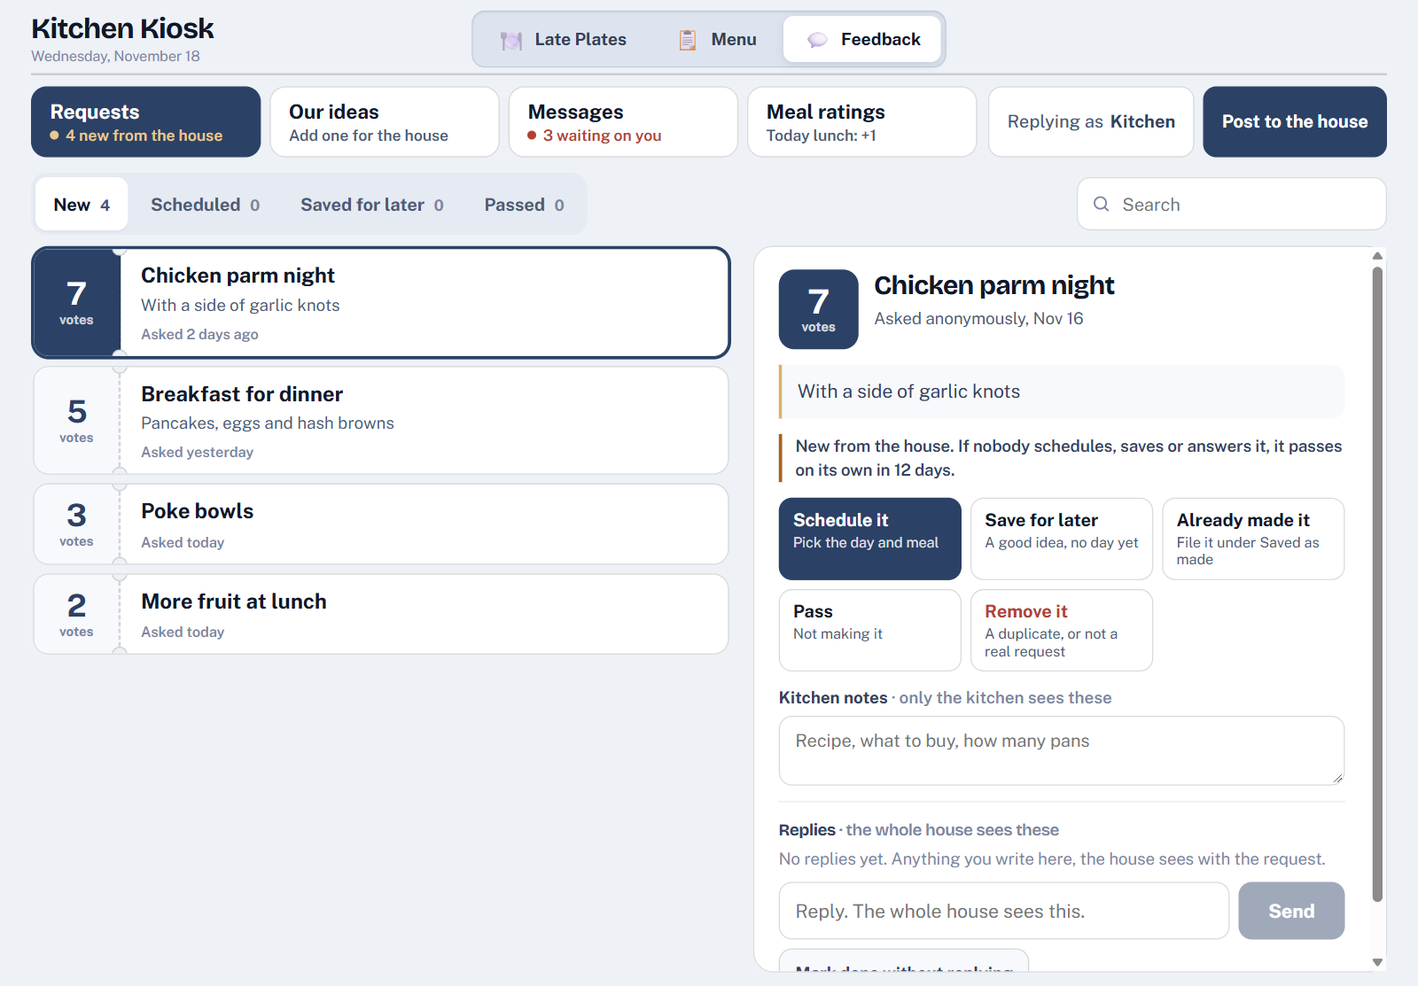
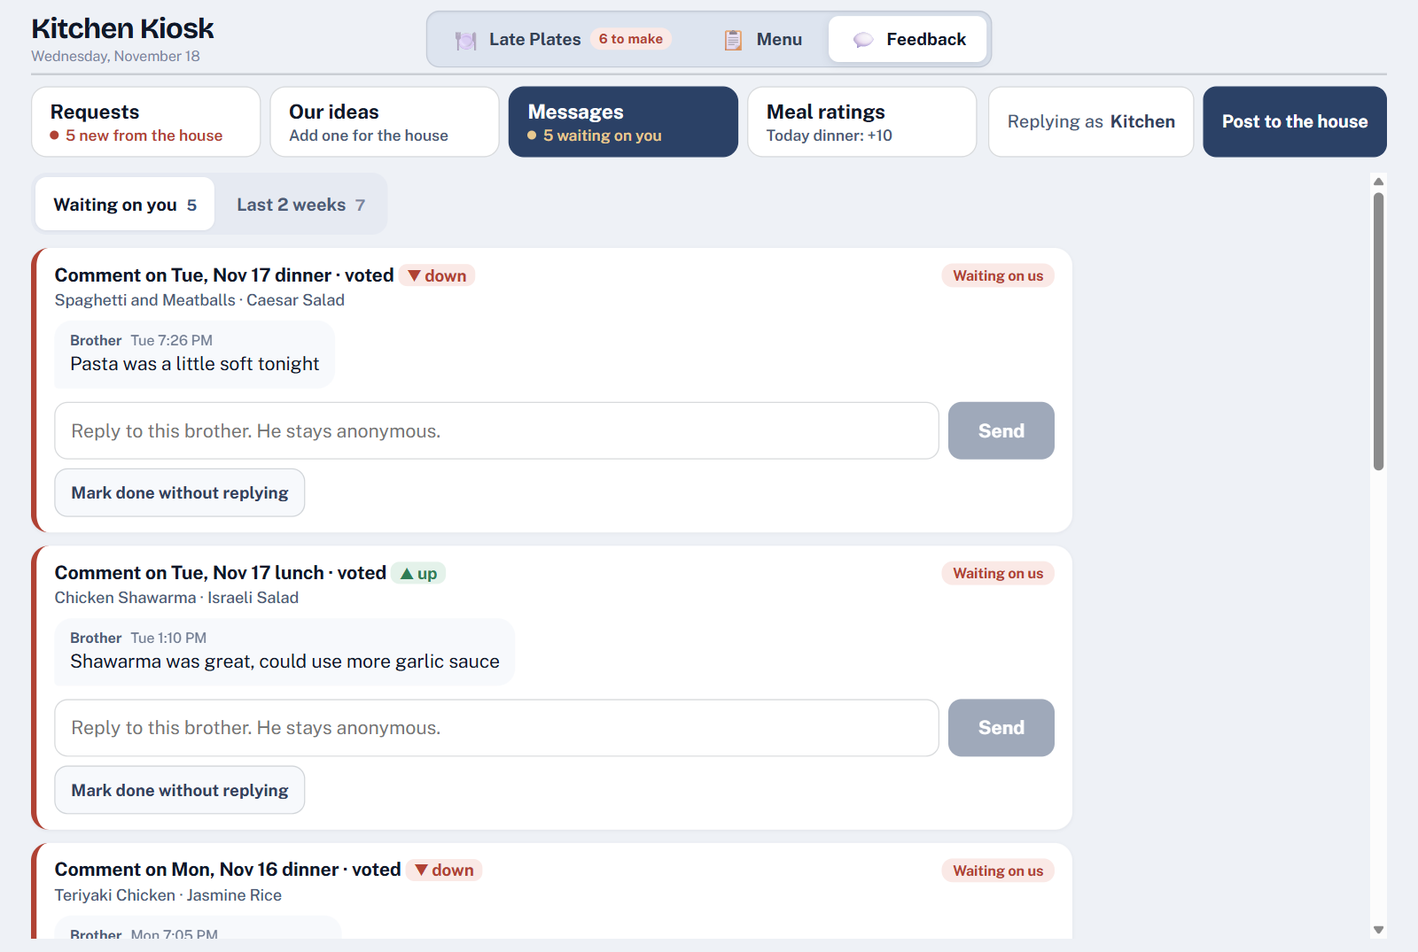
Showcase the current app with new screenshots
Rewrite the overview around the three-tab resident app, the kitchen
tablet's Feedback tools and the manager console as they ship today, and
replace every screenshot with fresh ones from a demo house.

diff --git a/README.md b/README.md
@@ -1,140 +1,127 @@
 # Kitchen Portal
 
-**Dining operations software for group-living houses: duty scheduling, late plates, menus, meal feedback and house polls, in one app for residents, chefs and the house's kitchen manager.**
+**Dining operations software for group-living houses.** Duty scheduling, cover, late plates, menus, meal feedback and house polls, in one system with a screen for each person who needs it: residents on their phones, chefs on a kitchen tablet, and the house's kitchen manager at a desk.
 
 In daily use since August 2026 by a fraternity chapter house of about 95 residents. It replaced a group-chat screenshot of the duty rotation, a sign-up sheet on the chefs' cart, and "I never knew I was on" arguments.
 
 > This repository is a product overview: documentation and screenshots only. **The source code is private and proprietary.** I'm happy to give a live demo, or code access to reviewers on request: rsghorbani9@gmail.com
 >
-> Screenshots use a demo roster with fictional names. No real residents appear.
+> Every screenshot comes from a demo house with fictional names and a few weeks of made-up activity. No real residents appear.
 
 <p align="center">
-  <img src="docs/screenshots/phone-home.png" width="30%" alt="A resident's home screen: his next shift and who he is on with">
-  <img src="docs/screenshots/phone-board.png" width="30%" alt="The week's board, with a shift up for grabs that anyone can pick up">
-  <img src="docs/screenshots/phone-request-plate.png" width="30%" alt="Requesting a late plate, with his allergy attached automatically">
+  <img src="docs/screenshots/phone-home.png" width="30%" alt="A resident's Home tab: tomorrow's lunch cleanup and who he is on with, buttons to put it up for grabs, drop it or add it to a calendar, and his points and standing">
+  <img src="docs/screenshots/phone-board.png" width="30%" alt="The Board: two open shifts worth a point, then each day's lunch and dinner crew, with his own shift highlighted and a cover request on Thursday dinner">
+  <img src="docs/screenshots/phone-late-plate.png" width="30%" alt="Saving a dinner plate: the menu, his peanut allergy flagged for the kitchen automatically, and a note saying he is back around 7:30">
 </p>
 
 ---
 
-## The problem
+## One record, three screens
 
-A chapter house with a hired chef has three groups who all need the same information, and nothing that connects them:
+A house with a hired chef has three groups who all need the same information and nothing that connects them. Kitchen Portal gives each one an interface built for the device it's actually used on, all backed by a single record.
 
-- **Residents** need to know when they're on kitchen duty, trade shifts when life gets in the way, see the menu, and save a plate when class runs over the meal.
-- **Chefs** need an accurate, allergy-safe list of plates to save, a simple way to publish the menu, and honest feedback on their food.
-- **The kitchen manager**, a student volunteer who changes every year, has to run a fair duty rotation for dozens of people and settle disputes about who was on.
+| Who | Where | What they do there |
+|---|---|---|
+| **Residents** | A phone app with three tabs | See their next shift, trade it, pick up open ones, vote on meals, talk to the kitchen, save a plate, answer polls |
+| **Chefs** | A paired kitchen tablet | Work the late-plate queue, publish the menu, answer the house, decide what to cook next |
+| **Kitchen manager** | A desktop console | Draw and post weeks, run the roster and points, read feedback with names, run polls, check the audit log |
 
-Kitchen Portal gives each group its own interface, built for the device it's actually used on, and backs them all with one record.
+The kitchen manager is a student volunteer who changes every year, so the system is built to be run by someone who has never met its author.
 
 ---
 
-## Features by interface
+## Residents: the phone app
 
-### Residents (phone app)
+Installed from the browser, no app store. Three tabs: **Home**, **Board** and **Menu**.
 
-**Home**
-- Next shift at a glance, with who you're on with, and one-tap **Add to calendar**
-- An auto-updating personal **calendar feed** of every assigned shift
-- Points, standing in the house, and upcoming shifts
-- **Standing availability:** block the days you can never do, and the draw respects them
-- Open seats going spare, which anyone can take for the point
+### Home
 
-**Shifts and cover**
-- **Put up for grabs** with a reason the house can see. The shift stays yours until someone takes it
-- Offer **2× or 3×** from points you've already earned, paid only if somebody actually covers it
-- **"I can't make it"** with clear, upfront consequences based on how much notice you give
-- **"I'll be there"** confirmation, recorded while dropping is still free
-- Coverers can hand a shift on under the same rules
-- **The Board:** the whole week's lunch and dinner crews, open shifts and one-tap pickup
+- **Your next shift**, front and centre: the day, the meal, and who you're on with
+- **Put up for grabs**, **I can't make it**, and **Add to calendar**, with the cost of each spelled out before you tap ("Dropping it now costs a make-up once somebody takes it")
+- Points, standing in the house, upcoming shifts, and how far ahead the schedule is posted
+- Open shifts anyone can take for the point, standing availability, and your history of served shifts
 
-**Menu and late plates**
-- The week's menu, day by day, viewable anywhere in seconds
-- **Save me a plate** before the cutoff, with a live countdown
-- Allergies and dietary needs attached to every request automatically
-- An optional note for the kitchen ("in class until 3:30")
-- **Recurring late plates** for a standing weekly schedule
+### Board
 
-**Feedback and the house conversation**
-- **Up/down votes on every meal**, both before it's served ("sound good?") and after ("how was it?")
-- **Meal requests:** ask for a dish and upvote others. Similar existing requests appear as you type, so duplicates don't pile up
-- Comments and conversations with the kitchen, which the chefs can reply to
-- Chef announcements, posted straight to the house
-- Feedback is **anonymous to the kitchen**. Names are visible only to the manager
+<img src="docs/screenshots/phone-standings.png" width="30%" align="right" alt="Standings: his 2 points and 34th of 58, then everyone on the rotation from most points to fewest, with lunch and dinner tabs">
 
-**Polls, standings and profile**
-- House polls in five formats, with an unskippable popup for live polls and the option to change an answer
-- **Standings:** every resident's points and rank
-- Self-managed profile: room, Slack ID and allergies
-- Six-digit PIN sign-in, PIN change, and "sign out everywhere"
-- A read-only weekly menu for out-of-house seniors, behind a shared password
+- **The board:** every posted week, day by day, with each lunch and dinner crew. Filter to your shifts, open shifts or everyone
+- **Cover:** a shift up for grabs shows on the board with what it pays. Pick it up in one tap. Ask with 2× or 3× by adding points you've already earned, paid only if someone actually covers it
+- **My availability:** block the days you can never do, like a weekly class, and the draw won't put you there
+- **Standings:** every resident from most points to fewest, by rotation, with house totals and the points the house has "minted" this year
 
-### Chefs (kitchen kiosk)
+<br clear="right">
 
-**Late plates**
-- A live queue for lunch and dinner, with counts on each tab
-- **Mandatory allergy acknowledgement:** allergies flagged in red on every plate
-- **Ready** and **Can't do it** on each request
-- A cutoff banner with a live countdown, so plating starts only when the list is final
-- A **Taking requests** switch and cutoff time adjustments, in the chefs' own hands
+### Menu
 
-**Menu**
-- A week-by-week menu editor that publishes to every resident instantly
-- Menu pairings, and scheduled meal requests shown alongside each day
+- The week's menu, day by day, with last week and next week a tap away
+- **Votes on every meal**, before it's served ("Sound good?") and after ("How was it?")
+- **A comment thread on every meal** that the kitchen reads and answers, with votes on every message
+- **Requests:** ask the kitchen for a dish and upvote what others asked for
+- **Save me a plate** before the cutoff, with a live countdown, your allergies attached automatically, and an optional note. **Recurring plates** for a standing weekly schedule
+- **No names.** The kitchen and the house see what you wrote, never who wrote it. Only the manager can see names
 
-**Feedback**
-- **Meal ratings:** before- and after-serving scores for recent meals, with no names attached
-- **Messages:** read the house's comments and reply, signed as the chef who answered
-- **Requests:** triage what the house is asking for. Schedule it, mark it already made, save it for later, pass, merge duplicates, or dismiss it
-- **Our ideas:** the kitchen's own idea bank, with when each dish was last made and when it's planned next. Schedule meals ahead with an assistive planner
-- **Post to the house:** announcements written and published by the chefs themselves
+### Polls
 
-**Device**
-- Securely **paired** tablet or kitchen laptop, with no passwords on the kitchen counter and pairing status on screen
+A poll the manager puts live **pops up on any page until you answer it**. You can change your answer while it's open, and the results can be shown back to the house. Five formats: pick one, pick several, rank, rating scale, and written answer.
 
-### Kitchen manager (desktop)
+<p align="center">
+  <img src="docs/screenshots/phone-votes.png" width="30%" alt="Tuesday's meals after serving: lunch at +13 with one comment, dinner at +17 with two">
+  <img src="docs/screenshots/phone-thread.png" width="30%" alt="The thread on Saturday's taco night: a request for spicier salsa at +12, the kitchen's reply the next morning, and a follow-up, all without names">
+  <img src="docs/screenshots/phone-poll.png" width="30%" alt="A live poll as a popup: pick up to two additions to Sunday brunch, closing Sunday at 5 PM">
+</p>
 
-**Dashboard**
-- Live tiles: residents on duty, sign-up rate, point spread, shifts up for grabs, make-ups owed, exemptions
-- How far ahead the schedule is posted, current and upcoming weeks, and an archive
-- One-click **chapter announcement** text
-- Recent activity feed, and a running count of points the house has "minted"
+---
 
-**Weeks**
-- **Draw** a week with a fair, reproducible scheduler: make-up debt first, then fewest points, then longest since served, then a seeded random draw
-- A configurable limit on weeks in a row, so a resident who is far behind catches up at a sustainable pace
-- A per-week overview with a **"Needs you"** list
-- Attendance and no-shows, raising offers on open seats, and bounties
+## Chefs: the kitchen tablet
 
-**Roster**
-- An **import wizard** that takes the chapter export, a spreadsheet, pasted cells or a typed list, and shows every add, update and removal for approval first
-- Bulk actions: rotations, exemptions with reasons, setup codes, removals
-- **Points operations:** add, subtract, set or rebase for a selection or a whole crew, with a preview and a reason on every record
-- One-time **setup codes** for claiming accounts
-- A **record for each resident:** every shift, late drops, releases, waivers and the full audit trail
-- **View as resident** to see exactly what the house sees
+![The kitchen tablet's dinner queue: a countdown to the 4 PM cutoff, the Taking requests switch, and three plates to make, two with allergies flagged in red and one with a note](docs/screenshots/kitchen-tablet.png)
 
-**Late plates and the kiosk**
-- Pair, rename and revoke kitchen devices
-- Default cutoffs and meal settings
+**Late Plates.** A live queue for each meal, with counts on each tab. Allergies are flagged in red on every plate. A cutoff banner counts down so plating starts only when the list is final. Each plate gets **Ready** or **Can't do it**, and the chefs control the **Taking requests** switch and cutoff times themselves.
 
-**Feedback**
-- Meal scores with authors, starred requests, hiding comments, and a **weekly digest**
+**Menu.** A week-by-week editor. What the chefs type shows up on every phone and on the dining-room TV right away.
 
-**Polls**
-- Five formats: pick one, pick several, rank, rating scale and written answer
-- Audiences (everyone, on duty, one crew, residents living in), closing times, and anonymous mode
-- Results with names, a list of who hasn't answered, copy-to-Slack, and CSV export
+**Feedback.** Everything the house is saying, in one place, with no names:
 
-**Audit log**
-- An append-only log of every consequential action
-- Filter by category, exact action, actor type, resident, record and date range, or search free text
-- Every view is a shareable URL, with CSV export
+- **Requests:** what the house is asking for, ranked by votes. **Schedule it** for a day and meal, **save for later**, mark it **already made**, **pass**, or remove a duplicate. Private kitchen notes sit next to public replies, and a request nobody acts on passes by itself
+- **Messages:** meal comments waiting on a reply, answered by the kitchen while the resident who wrote it stays anonymous
+- **Meal ratings**, **our ideas** (the kitchen's own idea bank), and **post to the house** for announcements
 
-**Settings and operations**
-- School-year rollover that carries the roster, points and settings forward
-- Draw pace, roster defaults, and the menu password for out-of-house seniors
-- **Slack integration:** reminders, cover posts and nudges, a switch for each message, built-in limits that keep the channel quiet, and a bot that deletes its own posts once they're resolved
-- An **in-app handbook**, so next year's manager can run it without the person who built it
+| Requests, ranked by the house | Messages waiting on the kitchen |
+|---|---|
+| ![The Requests list: chicken parm night at 15 votes, breakfast for dinner at 10, and the chef's options to schedule, save, mark made, pass or remove](docs/screenshots/kitchen-requests.png) | ![Messages: meal comments waiting on a reply, each showing how the writer voted, with a reply box and "Mark done without replying"](docs/screenshots/kitchen-feedback.png) |
+
+The tablet is **paired** with a short-lived code from the manager. There are no passwords on the kitchen counter, and each tablet can be revoked.
+
+---
+
+## Kitchen manager: the desktop console
+
+![The manager's dashboard: residents on duty, 92% signed in, point spread, shifts up for grabs, make-ups owed and exemptions; a live poll at 42 of 61 answers; house points and the year's minted count; and the posted weeks](docs/screenshots/admin-dashboard.png)
+
+**Dashboard.** Live tiles for the house, live polls with their response progress, points by rotation, how far ahead the schedule is posted, and a one-click chapter announcement.
+
+**Weeks.** Draw a week with a fair, reproducible scheduler, then post it. Each week has a **Needs you** list, and any shift can be reassigned, marked a no-show or posted for cover from the grid. A week that has started can't be deleted, because what the house was told is the record.
+
+**Roster and records.** An import wizard that takes the chapter's export, a spreadsheet, pasted cells or a typed list, and shows every add, update and removal for approval first. Bulk rotations, exemptions, setup codes and points operations, each with a reason on every affected record. And **a record for every resident:** every shift with the notice they were given, and everything that ever happened to them.
+
+| A posted week, and what needs attention | One resident's record |
+|---|---|
+| ![Manage week: one cover request needing attention, then the week's lunch and dinner crews, with today highlighted](docs/screenshots/admin-week.png) | ![A resident's record: three shifts with the notice given for each, one served as cover and one no-show, and the record that explains them](docs/screenshots/admin-member-history.png) |
+
+**Feedback, with names.** The week at a glance, conversations waiting on the kitchen, meal scores, requests and polls. Only the manager sees who wrote what. **Reveal name** shows one message's author to the house, and **Hide** takes a message off every screen. Both are logged and can be undone.
+
+**Polls.** Five formats, a chosen audience, closing times and an anonymous mode. Live results with names, who still hasn't answered, a timing breakdown, and CSV export.
+
+| This week's feedback | A live poll's results |
+|---|---|
+| ![The manager's feedback page: the kitchen's open conversations, new requests with who asked, the most wanted dishes not yet planned, and every comment with its author](docs/screenshots/admin-feedback.png) | ![Poll results: 42 of 61 answered, a 69% response rate, typical time to answer, and each option with who picked it](docs/screenshots/admin-poll.png) |
+
+**Audit log.** Every consequential action, append-only: sign-ins, shifts, cover, points, plates, feedback and manager changes. Filter by category, action, who acted, resident, record and date range, or search free text. Every view is a link and exports to CSV.
+
+![The audit log filtered to shifts and cover: who put a shift up for grabs and why, who picked it up, who owes a make-up, and a same-day request the manager raised to 2×](docs/screenshots/admin-audit.png)
+
+**Settings and the handbook.** School-year rollover that carries the roster, points and settings forward. Draw pace, roster defaults, Slack reminders and nudges with a switch for each message, and an **in-app handbook** so next year's manager can run it alone.
 
 ### Dining-room TV
 
@@ -142,34 +129,27 @@ A companion display on the same hardware shows today's menu, kitchen duty, weath
 
 ---
 
-## More screens
+## The house rules, encoded
 
-| The chefs' lunch queue on the kitchen kiosk | A resident's record: every shift, with notice given |
-|---|---|
-| ![Kitchen kiosk](docs/screenshots/kitchen-tablet.png) | ![Resident record](docs/screenshots/member-record.png) |
-
-**The chefs' Feedback tab and a live house poll.** Requests come in ranked by votes, with no names attached, and the chefs schedule, save, pass or answer each one. A live poll stays in front of every resident until he answers.
-
-<p align="center">
-  <img src="docs/screenshots/kitchen-feedback.png" width="70%" alt="The kitchen kiosk's Feedback tab: anonymous meal requests ranked by votes, with the chefs' options to schedule, save for later, pass or reply">
-  <img src="docs/screenshots/phone-poll.png" width="22%" alt="A live poll on a resident's phone: pick up to two additions to Sunday brunch">
-</p>
-
-![The manager's dashboard](docs/screenshots/dashboard.png)
-
-![Cover requests in the audit log: asked, picked up, and a same-day ask the manager raised to 2x](docs/screenshots/audit-cover.png)
+- **Who gets drawn.** Make-up debt first, then fewest points, then longest since last served, then a random draw seeded by the week, so any week can be reproduced exactly. Standing conflicts and exemptions are respected, with one shift per resident per week except make-ups.
+- **Up for grabs isn't dropping out.** A shift up for grabs stays yours until somebody takes it, and only whoever serves earns the point. A bonus you offer comes out of points you've earned, is paid only if someone covers, and can never be promised twice. Cover moves points between residents. It never creates them.
+- **"I can't make it" depends on notice.** With 72 hours' notice you come off the shift and owe a make-up. With less, it stays yours and the manager is flagged.
+- **No-shows** never earn the point and, by default, owe a make-up and lose a point.
+- **Minted points are counted.** Anything the house adds, such as a raised shift or a bounty on an open seat, is recorded apart from what residents funded, and the year's total is public.
+- **Points can't drift.** Randomized tests replay posts, raises, pickups and corrections, and check that every point in the house is accounted for.
+- **Feedback is open but nameless,** and **polls can't be skipped.**
+- **Posted weeks are never regenerated.** What the house was told is the record.
 
 ---
 
 ## Built for real use
 
-- **A full-stack progressive web app** that residents install from the browser, with no app store needed
-- **Self-hosted** on a Raspberry Pi in the house. Published through an outbound-only Cloudflare Tunnel, so nothing listens on the house network
-- **Security designed for an attacker who knows the house:** one-time setup codes, scrypt-hashed PINs with escalating lockout, signed sessions that can be revoked instantly, a manager account with password plus authenticator (TOTP), paired kitchen devices, and strict browser security headers. Residents in the house who study security have tried to break in and haven't managed it.
-- **The record is the product:** every consequential change appends to an audit log that's never edited or deleted, which settles "I never knew I was on" with a timestamped chain instead of memory
-- **Points can't drift:** the scheduler and points logic are pure, heavily tested functions. Randomized tests check that every point in the house is accounted for
+- **A full-stack progressive web app** that residents install from the browser
+- **Self-hosted** on a Raspberry Pi in the house, published through an outbound-only Cloudflare Tunnel, so nothing listens on the house network
+- **Security designed for an attacker who knows the house:** one-time setup codes, scrypt-hashed PINs with escalating lockout, signed sessions that can be revoked instantly, a manager account with a password and an authenticator code (TOTP), paired kitchen devices, and strict browser security headers. Residents who study security have tried to break in and haven't managed it.
+- **The record is the product:** every consequential change appends to an audit log that is never edited or deleted, so "I never knew I was on" is answered with a timestamped chain instead of memory
 - **Nightly encrypted backups** (AES-256-GCM) to a USB drive, with integrity checks and a scripted restore drill
-- **Safe deploys:** typecheck, 400+ tests, backup, build, health check, and automatic rollback if unhealthy
+- **Safe deploys:** typecheck, nearly 400 tests, backup, build, health check, and automatic rollback if unhealthy
 
 See [SECURITY-OVERVIEW.md](SECURITY-OVERVIEW.md) for more on the security design.
 
@@ -177,7 +157,7 @@ See [SECURITY-OVERVIEW.md](SECURITY-OVERVIEW.md) for more on the security design
 
 ## Where it's going
 
-Any house or organization that feeds its members on a schedule (fraternities and sororities, co-ops, cooperative and religious houses, camps) has the same three-sided problem. The next step is to take Kitchen Portal from one house to many: multi-house hosting, onboarding without the builder present, and conversations with the food-service companies that staff these kitchens.
+Any house or organization that feeds its members on a schedule (fraternities and sororities, co-ops, religious houses, camps) has the same three-sided problem. The next step is to take Kitchen Portal from one house to many: multi-house hosting, onboarding without the builder present, and conversations with the food-service companies that staff these kitchens.
 
 ---
 

diff --git a/SECURITY-OVERVIEW.md b/SECURITY-OVERVIEW.md
@@ -9,9 +9,10 @@ This page summarizes the controls. Implementation details are private.
 | Claiming someone else's account | One-time **setup codes** issued by the manager: stored as a keyed hash, single use, expire in 7 days. Knowing a name is not enough. |
 | Guessing a PIN | **Escalating lockout** per account and per IP, persisted so a restart doesn't reset it. Six-digit PINs that reject runs and repeats, **scrypt**-hashed. |
 | Stolen or stale sessions | HMAC-signed cookies carrying a **credential version**, checked on every request. A PIN reset, a PIN change or "sign out everywhere" ends every older session immediately. |
-| The manager account | **scrypt** password plus **TOTP** authenticator codes (RFC 6238, replay-protected). Rotating either secret ends existing sessions. |
+| The manager account | **scrypt** password plus **TOTP** authenticator codes (RFC 6238, replay-protected). Rotating either secret, or signing out every manager session, ends existing sessions. |
 | The kitchen kiosk | **Paired** with a short-lived code, then an httpOnly cookie whose secret is stored hashed. Every device is listed and revocable. No token ever appears in a URL. |
 | The dining-room TV | A separate **read-only key** for two endpoints that return names and counts only, never dietary information. |
+| Who wrote what | Meal comments, requests and replies carry no name on the kitchen tablet or on other residents' phones. Only the manager sees authors. Revealing one message's author, or hiding a message, is logged and can be undone. |
 | Allergy data | Sent only to the chefs' paired kiosk and the manager. Never shown on the TV, in public feeds or to other residents. |
 | Network exposure | The app binds to localhost on the server. The only way in is an **outbound-only Cloudflare Tunnel**, with TLS and HSTS at the edge. Admin access is over a private Tailscale network. |
 | Everything else | Content Security Policy, `frame-ancestors 'none'`, nosniff, strict referrer policy, no CORS, signed calendar-feed URLs, formula-safe CSV export, and systemd sandboxing. |
